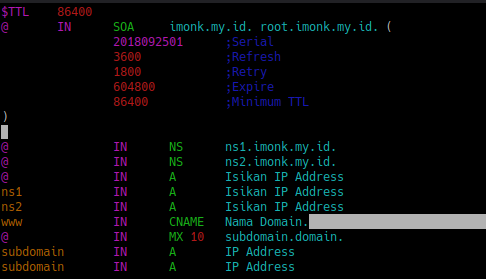
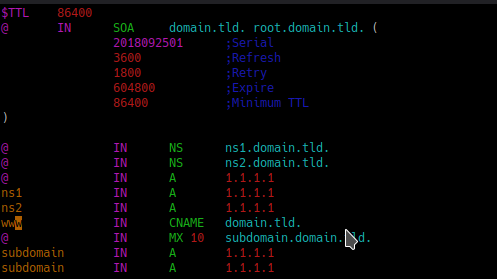
Revisi Tambah Post DNS(4) - Imron Rosyadi

diff --git a/_posts/2019-10-23-Cara-Install-dan-Konfigurasi-DNS-Server-dengan-CentOs-7.md b/_posts/2019-10-23-Cara-Install-dan-Konfigurasi-DNS-Server-dengan-CentOs-7.md
@@ -43,27 +43,27 @@ vim /etc/named.conf
 ```
 2. Sesuaikan dengan konfigurasi IP Address yang Anda gunakan saat ini, untuk detail penggunaannya dapat melalui gambar 1 dibawah ini : 
 
-![Screenshot Git-FTP](/assets/images/Konfigurasi-IP-Address-named.png)
+![Screenshot DNS-server](/assets/images/Konfigurasi-IP-Address-named.png)
 
 3. Selanjutnya Anda perlu mendeskripsikan nama domain yang akan digunakan pada website Anda, sehingga Anda perlu menambahkan baris konfigurasi seperti berikut : 
 
 ```
-zone    "imonk.my.id"  {
+zone    "domain.tld"  {
         type master;
-        file    "/etc/named/imonk.my.id.zone";
+        file    "/etc/named/domain.tld.zone";
  };
 
 ```
 
 > Keterangan : 
-> `imonk.my.id` merupakan root domain yang akan digunakan untuk manajemen DNS, isikan dengan domain yang ingin Anda gunakan. Pada > baris file tersebut merupakan peletakan nama file yang akan disimpan, sehingga Anda harus membuat file yang sesuai dengan 
+> `domain.tld` merupakan root domain yang akan digunakan untuk manajemen DNS, isikan dengan domain yang ingin Anda gunakan. Pada > baris file tersebut merupakan peletakan nama file yang akan disimpan, sehingga Anda harus membuat file yang sesuai dengan 
 > deklarasi yang Anda buat pada nama file tersebut. 
 
 4. Simpan konfigurasi tersebut. 
 
-5. Buatlah nama file `imonk.my.id.zone` untuk forward zone sesuai dengan nama file yang dideklrasikan sebelumnya yang terletak pada direktori `/etc/named/`. Adapun beris konfigurasinya dapat menggunakan dengan salah satu contoh pada gambar 2 berikut ini : 
+5. Buatlah nama file `domain.tld.zone` untuk forward zone sesuai dengan nama file yang dideklrasikan sebelumnya yang terletak pada direktori `/etc/named/`. Adapun beris konfigurasinya dapat menggunakan dengan salah satu contoh pada gambar 2 berikut ini : 
 
-![Screenshot Git-FTP](/assets/images/Konfigurasi-Forward-Zone.png)
+![Screenshot DNS-server](/assets/images/Konfigurasi-Forward-Zone.png)
 
 
 > Keterangan : 
@@ -75,18 +75,18 @@ Anda dapat melakukan uji coba dari hasil konfigurasi DNS Anda menggunakan `nsloo
 
 
 ```
-# whois imonk.my.id | grep Server
-Name Server:NS1.IMONK.MY.ID
-Name Server:NS2.IMONK.MY.ID
+# whois domain.tld | grep Server
+Name Server:NS1.DOMAIN.TLD
+Name Server:NS2.DOMAIN.TLD
 
-# dig imonk.my.id +short 
-103.41.205.70
+# dig domain.tld +short 
+IP-Addr-DNS-Server
 
-# dig @ns1.imonk.my.id imonk.my.id +short
-103.41.205.70
+# dig @ns1.domain.tld domain.tld +short
+IP-Addr-DNS-Server
 
-# dig @ns2.imonk.my.id imonk.my.id +short
-103.41.205.70
+# dig @ns2.domain.tld domain.tld +short
+IP-Addr-DNS-Server
 ```
 
 Jika hasil pengetesan konfigurasi DNS server sudah sesuai dengan yang dikonfigurasi sebelumnya, maka akan menampilkan IP Address yang digunakan pada domain tersebut. Dari hasil pengetesan diatas dapat dilihat bahwa domain sudah resolv ke IP Address yang digunakan. Sebagai informasi tambahan apabila Anda melakukan konfigurasi DNS menggunakan VPS maka Anda perlu menunggu waktu propagasi dan waktu propagasi paling lambat 2x24 jam tergantung dari resolver ISP yang Anda gunakan, namun jika Anda menggunakan VM local Anda hanya menunggu beberapa saat domain tersebut akan resolv atau biasanya dapat resolv secara langsung tergantung dari segi konfigurasi resolver juga (resolv.conf). 
@@ -99,7 +99,7 @@ yum install httpd
 
 Coba akses root domain Anda pada web browser, apabila berhasil maka akan tampil seperti pada gambar 3 berikut ini : 
 
-![Screenshot Git-FTP](/assets/images/Hasil-web-server.png)
+![Screenshot DNS-server](/assets/images/Hasil-web-server.png)
 
 Demikian informasi yang dapat saya bagikan semoga ilmu dan pengetahun tentang DNS Server ini dapat bermanfaat dan barokah buat kita semua. Aamiin 
 
